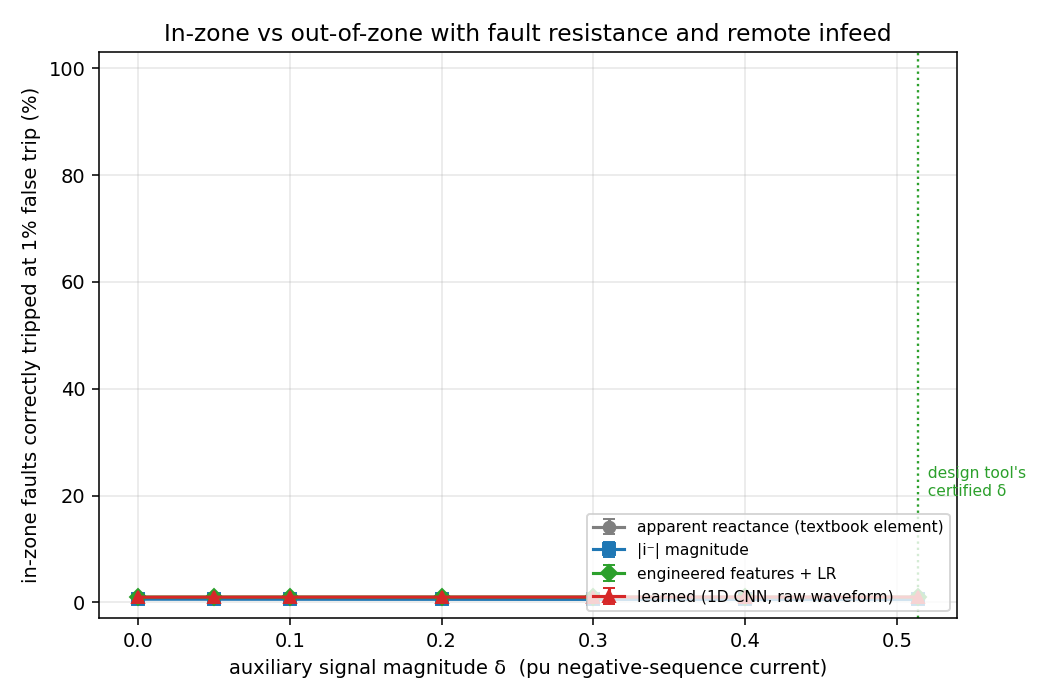
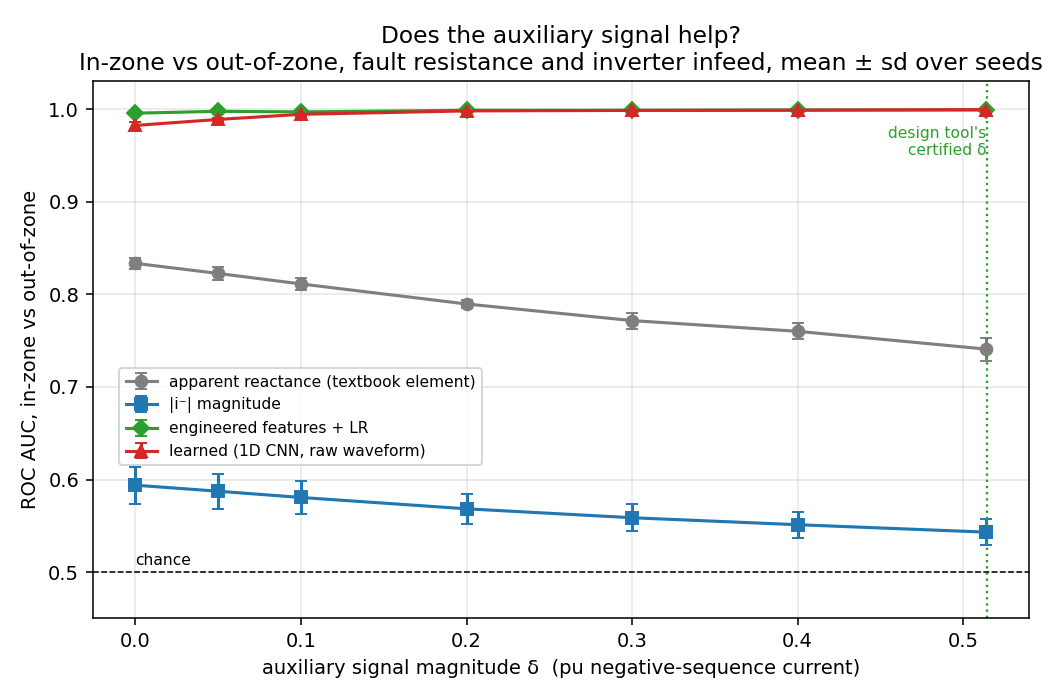
Fix the zone figure axes: it was plotting AUC on a percentage scale
When reporting switched from detection rate to ROC AUC the axis label, title and y limits
were left as the percentage versions, so every curve was squashed against the bottom of a
0 to 100 axis and the figure showed nothing. Axes, labels and legend placement corrected in
src/zone_detect.py and the figure regenerated from results/zone_sweep.json.

diff --git a/src/zone_detect.py b/src/zone_detect.py
@@ -219,11 +219,14 @@ def main():
         sd = np.array([r[key]["auc_std"] for r in rows])
         ax.errorbar(mags, mu, yerr=sd, marker=mk, color=c, label=lab, capsize=3, lw=1.6)
     ax.axvline(abs(design_delta), ls=":", lw=1.2, color="tab:green")
-    ax.text(abs(design_delta), 20, "  design tool's\n  certified δ", fontsize=8, color="tab:green")
+    ax.text(abs(design_delta), 0.62, " design tool's\n certified δ", fontsize=8, color="tab:green")
+    ax.axhline(0.5, ls="--", lw=.8, color="k")
+    ax.text(mags[0], 0.508, "chance", fontsize=8)
     ax.set_xlabel("auxiliary signal magnitude δ  (pu negative-sequence current)")
-    ax.set_ylabel(f"in-zone faults correctly tripped at {FAR:.0%} false trip (%)")
-    ax.set_title("In-zone vs out-of-zone with fault resistance and remote infeed")
-    ax.grid(alpha=.3); ax.legend(fontsize=8, loc="lower right"); ax.set_ylim(-3, 103)
+    ax.set_ylabel("ROC AUC, in-zone vs out-of-zone")
+    ax.set_title("Does the auxiliary signal help?\n"
+                 "In-zone vs out-of-zone, fault resistance and inverter infeed, mean ± sd over seeds")
+    ax.grid(alpha=.3); ax.legend(fontsize=8, loc="upper left", bbox_to_anchor=(0.02, 0.48)); ax.set_ylim(0.45, 1.03)
     plt.tight_layout()
     png = os.path.join(OUT, "zone_sweep.png")
     plt.savefig(png, dpi=140)
